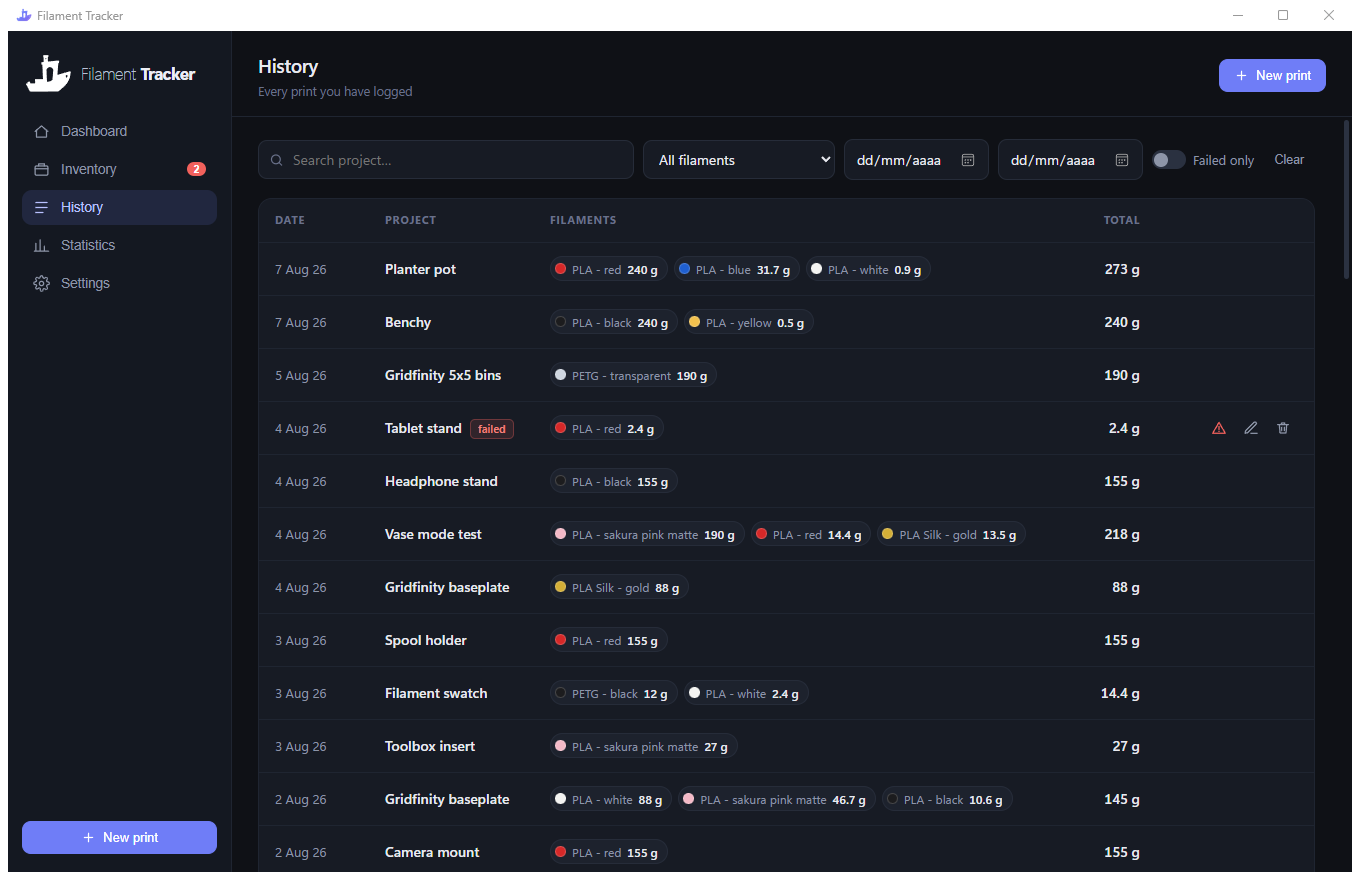
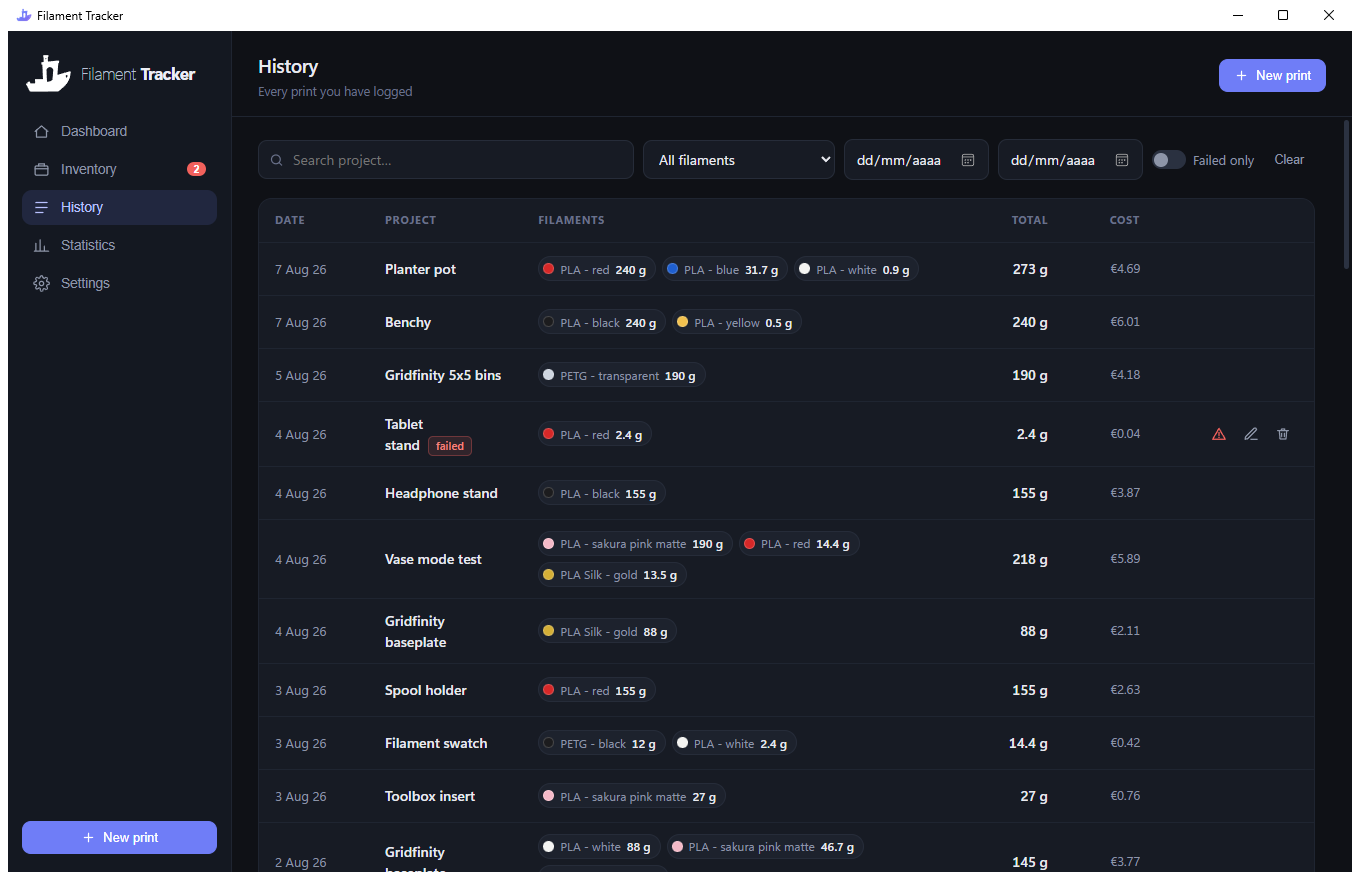
Refresh the screenshots and add the detail sheet
The sample database now carries spool prices, so the Cost column and the Spent
tile appear in the shots the way they do once you have entered one. Adds a fifth
screenshot of the filament detail sheet, which is where the printing
temperatures and the density live and had nothing showing it.

Two fixes to the capture script, both of which produced a wrong image while
regenerating these:

* It found the window by title, so it photographed whichever instance answered
  first -- one shot came out of the packaged exe, in the wrong language and
  showing real data. It now keeps the process it started.
* It shoots in English with the Bambu Studio card switched off, so the images no
  longer depend on the machine's locale or on what happened to be sliced.

diff --git a/tools/make_demo_db.py b/tools/make_demo_db.py
@@ -17,21 +17,24 @@ from core import Store  # noqa: E402
 TODAY = date.today()
 D = lambda n: (TODAY - timedelta(days=n)).isoformat()  # noqa: E731
 
-# material, colour, hex, brand, spool type, spares, days since opened
+# material, colour, hex, brand, spool type, spares, days since opened, price
+# Prices are the usual shop figures for a 1 kg spool: the cheap PLA around 20,
+# the engineering plastics higher. They only exist to make the cost column and
+# the Spent tile show something in the screenshots.
 FILAMENTS = [
-    ("PLA",     "black",            "#1c1c1e", "Bambu Lab", "plastic",   2, 34),
-    ("PLA",     "white",            "#f4f4f2", "Bambu Lab", "plastic",   1, 21),
-    ("PLA",     "grey",             "#8a8f96", "eSUN",      "cardboard", 0, 48),
-    ("PLA",     "red",              "#d62828", "Sunlu",     "plastic",   1, 12),
-    ("PLA",     "blue",             "#1f5fd0", "eSUN",      "cardboard", 0,  9),
-    ("PLA",     "yellow",           "#f2c14e", "Sunlu",     "plastic",   0, 55),
-    ("PLA",     "sakura pink matte","#f4b9c7", "Bambu Lab", "plastic",   0,  6),
-    ("PLA",     "olive green matte","#6b7a3a", "Polymaker", "cardboard", 1, 18),
-    ("PLA Silk","gold",             "#d4af37", "Overture",  "cardboard", 0, 27),
-    ("PETG",    "black",            "#1c1c1e", "Prusament", "plastic",   1, 41),
-    ("PETG",    "transparent",      "#cfd6e0", "eSUN",      "plastic",   0, 15),
-    ("TPU",     "orange",           "#e8722c", "Sunlu",     "plastic",   0, 11),
-    ("ABS",     "natural",          "#e3ddd0", "Elegoo",    "cardboard", 0, 30),
+    ("PLA",     "black",            "#1c1c1e", "Bambu Lab", "plastic",   2, 34, 24.99),
+    ("PLA",     "white",            "#f4f4f2", "Bambu Lab", "plastic",   1, 21, 24.99),
+    ("PLA",     "grey",             "#8a8f96", "eSUN",      "cardboard", 0, 48, 18.49),
+    ("PLA",     "red",              "#d62828", "Sunlu",     "plastic",   1, 12, 16.99),
+    ("PLA",     "blue",             "#1f5fd0", "eSUN",      "cardboard", 0,  9, 18.49),
+    ("PLA",     "yellow",           "#f2c14e", "Sunlu",     "plastic",   0, 55, 16.99),
+    ("PLA",     "sakura pink matte","#f4b9c7", "Bambu Lab", "plastic",   0,  6, 27.99),
+    ("PLA",     "olive green matte","#6b7a3a", "Polymaker", "cardboard", 1, 18, 22.99),
+    ("PLA Silk","gold",             "#d4af37", "Overture",  "cardboard", 0, 27, 23.99),
+    ("PETG",    "black",            "#1c1c1e", "Prusament", "plastic",   1, 41, 29.99),
+    ("PETG",    "transparent",      "#cfd6e0", "eSUN",      "plastic",   0, 15, 21.99),
+    ("TPU",     "orange",           "#e8722c", "Sunlu",     "plastic",   0, 11, 26.99),
+    ("ABS",     "natural",          "#e3ddd0", "Elegoo",    "cardboard", 0, 30, 21.49),
 ]
 
 # project, url, failed
@@ -71,11 +74,11 @@ def main(path):
     rnd = random.Random(20260807)   # fixed seed: reproducible screenshots
 
     ids = []
-    for material, color, hexv, brand, stype, spares, days in FILAMENTS:
+    for material, color, hexv, brand, stype, spares, days, price in FILAMENTS:
         fid = s.add_filament({
             "material": material, "color": color, "hex": hexv, "brand": brand,
             "spool_type": stype, "stock": spares, "roll_weight": 1000,
-            "roll_opened": D(days),
+            "roll_opened": D(days), "price": price,
         })
         ids.append(fid)
 

diff --git a/README.md b/README.md
@@ -145,6 +145,8 @@ density. They are not typed in: they come from a catalogue of **53 manufacturers
 [SpoolmanDB](https://github.com/Donkie/SpoolmanDB) and shipped with the app, so
 none of this needs a connection.
 
+<img src="docs/detail.png" alt="Filament detail sheet">
+
 The lookup goes from specific to general and says which it used:
 
 | Source | Meaning |

diff --git a/README.es.md b/README.es.md
@@ -146,6 +146,8 @@ productos y 3531 colores** construido a partir de
 [SpoolmanDB](https://github.com/Donkie/SpoolmanDB) y empaquetado con la app, así
 que nada de esto necesita conexión.
 
+<img src="docs/detail.png" alt="Ficha de un filamento">
+
 La búsqueda va de lo concreto a lo general, y dice de dónde ha salido el dato:
 
 | Origen | Qué significa |
